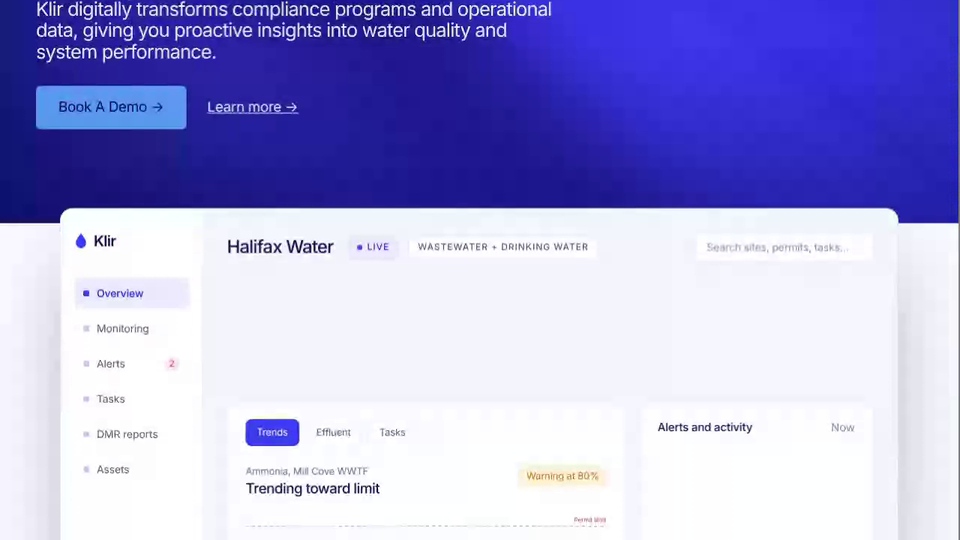
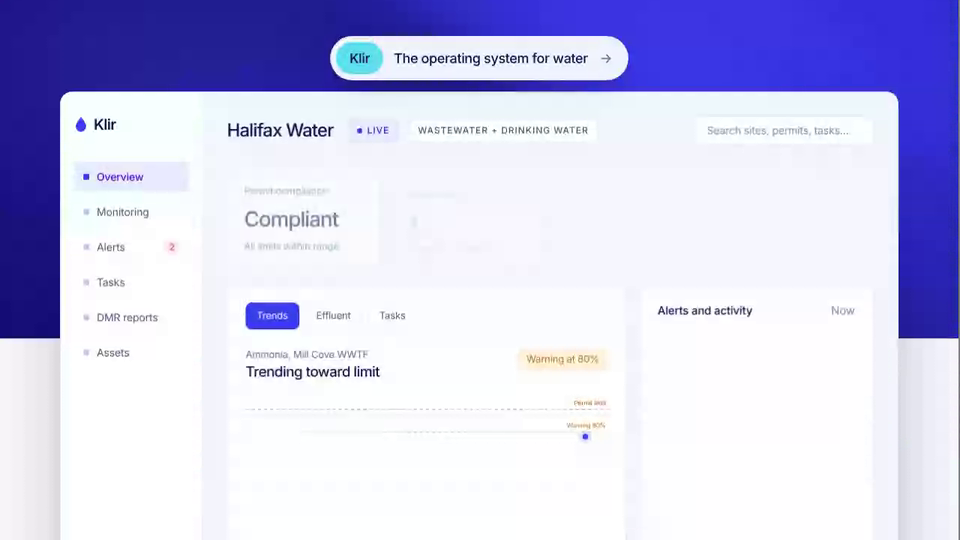
Klir Landing Page: Klir pill above the UI screen, appears as the hero text fades
Claude-Session: https://claude.ai/code/session_01AHeBdxxJMjuAF9w67sWwW5

diff --git a/klir-landing-page/index.html b/klir-landing-page/index.html
@@ -192,6 +192,10 @@ footer p{font-size:clamp(18px,1.8vw,22px);letter-spacing:-.02em;max-width:30em;m
 .ec:not(.vis) .prog i{width:0}
 .ur i.lv{animation:lv 1.8s ease-out infinite}
 @media(prefers-reduced-motion:reduce){.ecimg>img,.ec .ui,.ec .ui *{animation:none!important;transition:none!important;opacity:1!important}}
+.pill{position:absolute;left:50%;top:-74px;transform:translateX(-50%);display:flex;align-items:center;gap:14px;padding:8px 20px 8px 8px;background:#f3f4fb;border-radius:999px;color:var(--navy);text-decoration:none;white-space:nowrap;opacity:0;pointer-events:none;transition:background .2s;font-size:18px;letter-spacing:-.02em;box-shadow:0 10px 30px -12px rgba(14,5,70,.5)}
+.pill:hover{background:#fff}.pill svg{color:#6b6a93;transition:transform .25s}.pill:hover svg{transform:translateX(3px)}
+.pb{background:var(--cyan);color:var(--navy);border-radius:999px;padding:8px 18px;font-weight:500}.pt{font-weight:500}
+@media(max-width:820px){.pill{font-size:15px;top:-62px;gap:10px}}
 </style>
 </head>
 <body>
@@ -210,7 +214,7 @@ footer p{font-size:clamp(18px,1.8vw,22px);letter-spacing:-.02em;max-width:30em;m
   <div class="cta"><a class="btn" href="#demo">Book A Demo →</a><a class="tl" href="#demo">Learn more →</a></div>
 </div>
 <main id="top">
-<div class="uiwrap" id="ui"><div class="app" aria-label="Water management dashboard preview">
+<div class="uiwrap" id="ui"><a class="pill" id="pill" href="https://www.klir.com/" target="_blank" rel="noopener"><span class="pb">Klir</span><span class="pt">The operating system for water</span><svg viewBox="0 0 24 24" width="20" height="20" fill="none" stroke="currentColor" stroke-width="2" stroke-linecap="round" stroke-linejoin="round"><path d="M5 12h14M13 6l6 6-6 6"/></svg></a><div class="app" aria-label="Water management dashboard preview">
 <aside><div class="brand"><svg width="18" height="22" viewBox="-12 -16 24 32"><use href="#drop" fill="#3b3bef"/></svg>Klir</div><ul><li class=on><i></i>Overview</li><li><i></i>Monitoring</li><li><i></i>Alerts<em>2</em></li><li><i></i>Tasks</li><li><i></i>DMR reports</li><li><i></i>Assets</li></ul></aside>
 <div class="mn"><div class="top"><h3>Halifax Water</h3><span class="chip live">Live</span><span class="chip">Wastewater + Drinking water</span><div class="srch">Search sites, permits, tasks…</div></div>
 <div class="ks"><div class="k"><small>Permit compliance</small><b>Compliant</b><span class="gr">All limits within range</span></div><div class="k"><small>Open alerts</small><b data-n="2">0</b><span class="am">1 warning, 1 advisory</span></div><div class="k"><small>Tasks due this week</small><b data-n="7">0</b><span class="">5 on track</span></div><div class="k"><small>DMR reporting</small><b>Ready</b><span class="">Next submission Dec 15</span></div></div>
@@ -303,6 +307,7 @@ function tick(){
   $('snav').classList.toggle('show',$('ui').getBoundingClientRect().bottom<0);
   const pp=Math.min(1,Math.max(0,scrollY/(HB*.8)));
   if(pp>.1&&!played)play();
+  {const o=Math.max(0,Math.min(1,(pp-.15)/.25)),pl=$('pill');pl.style.opacity=o;pl.style.pointerEvents=o>.5?'auto':'none'}
   heroEls.forEach(e=>{e.style.opacity=Math.max(0,1-pp*1.7);e.style.transform=`translateY(${-pp*30}px)`});$('ui').style.transform=`translateY(${90-pp*190}px)`;{const ur=$('ui').getBoundingClientRect();tail.style.height=Math.max(HB,ur.top-wrap.getBoundingClientRect().top+pp*ur.height/2)+'px'}
   const top=wrap.getBoundingClientRect().top,y=Math.max(LT,Math.min(H,innerHeight*.5-top));
   
